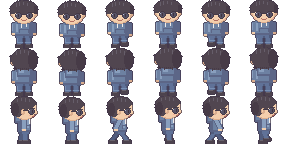
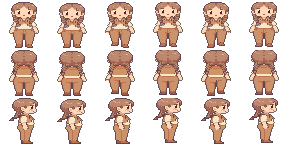
목축인을 사용자 AI 그림으로 교체 (땋은 머리 · 스카프 · 갈색 조끼)
- rancher_patch.json: 둥근 눈 + 반짝, 땋은 머리의 보랏빛 그늘을 밤색으로 (hue_shift)
- make_character_sheet.py 임시 옷 주석 정리

Claude-Session: https://claude.ai/code/session_01N66MPVihfuKcLdBMZMa38e

diff --git a/tools/make_character_sheet.py b/tools/make_character_sheet.py
@@ -33,11 +33,11 @@ HOODIES = {
     "player": ((160, 164, 172), (126, 130, 142), (194, 198, 206)),
     # 사냥꾼 외형은 미정. 구분용 임시 초록 후드.
     "hunter": ((118, 150, 98), (88, 118, 76), (150, 182, 124)),
-    # 대장장이 (2026-09-29 대장간 복구 A): 외형 미정. 구분용 임시 갈색 작업복.
+    # 대장장이: 2026-09-30 사용자 AI 그림으로 교체 (import_ai_character.py). 부위 지도가 있어 여기선 안 그림.
     "smith": ((150, 108, 78), (118, 82, 62), (184, 140, 104)),
-    # 연금술사 (2026-09-29 약방 복구): 외형 미정. 구분용 임시 쑥색 옷.
+    # 연금술사: 2026-09-30 사용자 AI 그림으로 교체. 여기선 안 그림.
     "alchemist": ((128, 156, 124), (96, 124, 100), (164, 190, 156)),
-    # 목축인 (2026-09-30 축사 닭장): 외형 미정. 구분용 임시 청색 멜빵 작업복.
+    # 목축인: 2026-09-30 사용자 AI 그림으로 교체. 여기선 안 그림.
     "rancher": ((92, 120, 160), (70, 90, 130), (124, 152, 190)),
 }
 
